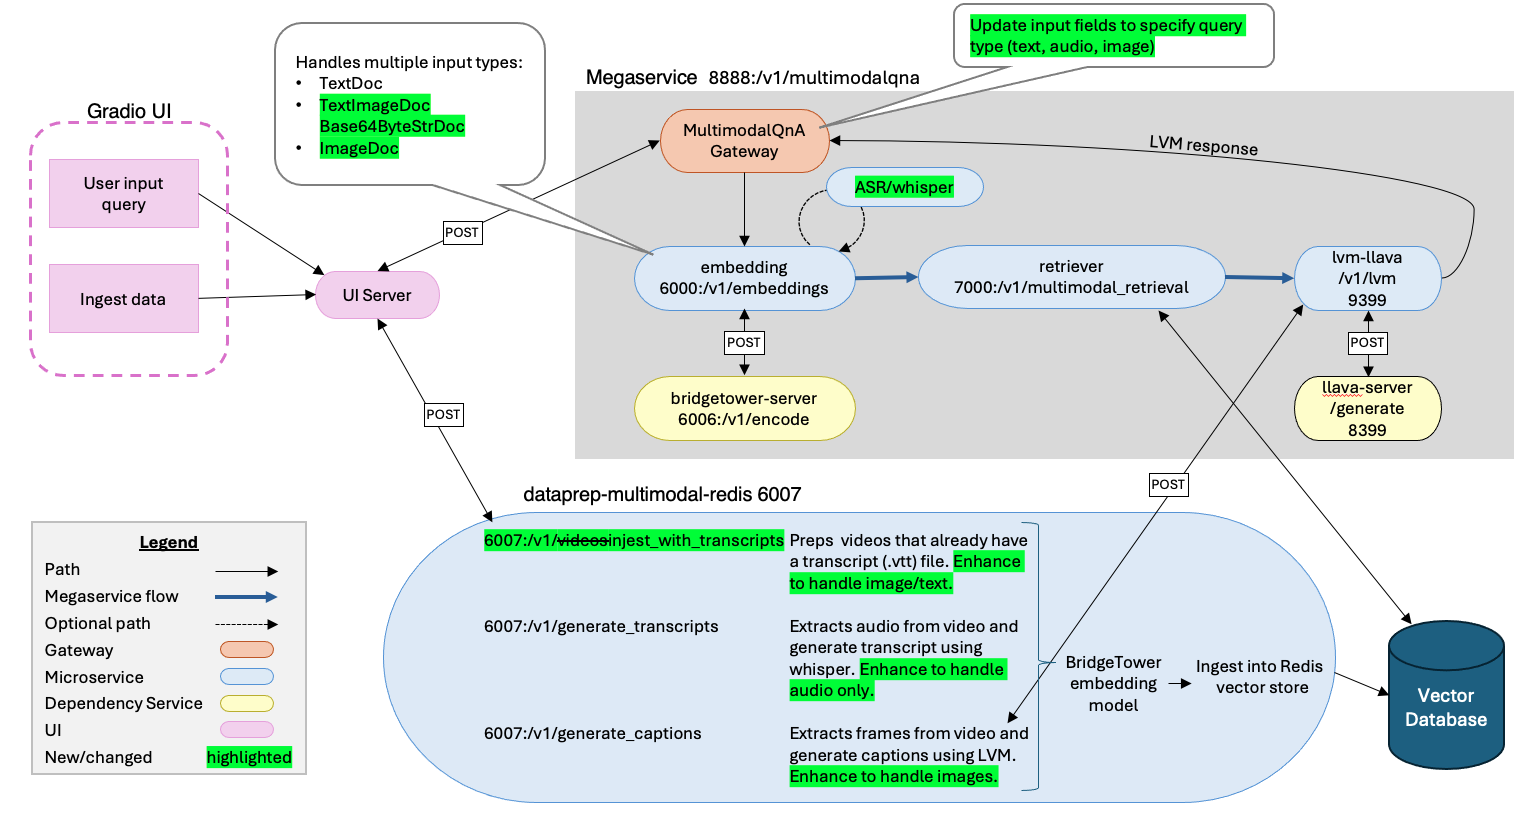
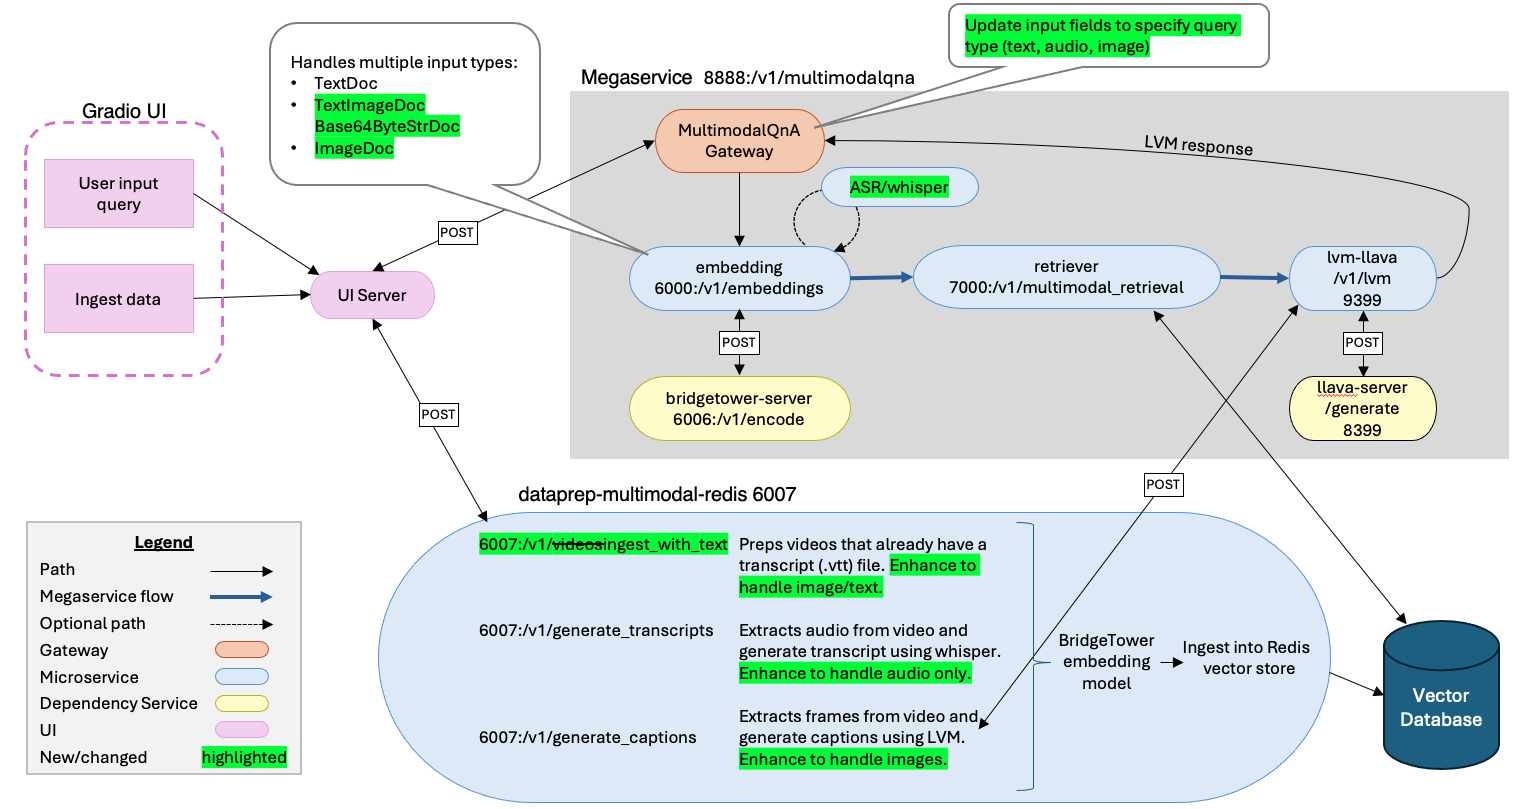
Update dataprep endpoint paths

diff --git a/community/rfcs/24-10-02-GenAIExamples-xxx-Image_and_Audio_Support_in_MultimodalQnA.md b/community/rfcs/24-10-02-GenAIExamples-xxx-Image_and_Audio_Support_in_MultimodalQnA.md
@@ -69,11 +69,13 @@ The table below lists the endpoints for the multimodal data prep microservice th
 
 | Endpoint | Data type | Description |
 |----------|-----------|-------------|
-| `6007:/v1/videos_with_transcripts` becomes `6007:/v1/ingest_with_transcripts` | Videos with transcripts and images with text | For video with transcripts, gets the video file with their corresponding transcript file (.vtt), and then extracts frames and saves annotations. The image with text would be treated like a single frame with transcript. The data and metadata are prepared for ingestion and then added to the Redis vector store. |
+| `6007:/v1/videos_with_transcripts` becomes `6007:/v1/ingest_with_text` | Videos with transcripts and images with text | For video with transcripts, gets the video file with their corresponding transcript file (.vtt), and then extracts frames and saves annotations. The image with text would be treated like a single frame with transcript. The data and metadata are prepared for ingestion and then added to the Redis vector store. |
 | `6007:/v1/generate_transcripts` | Videos with spoken audio and audio only | For videos with spoken audio, data prep extracts the audio from the video and then generates a transcript (.vtt) using the whisper model. For audio only, the transcript would also be generated using the whisper model. The data and metadata are prepared for ingestion and then added to the Redis vector store. |
 | `6007:/v1/generate_captions` | Videos without spoken audio (i.e. background music, silent movie) and images without text | For videos, data prep extracts frames from the video and uses the LVM microservice to generate captions for the frames. An image will be treated similarly to a video frame, and the LVM will be used to generate a caption for the image. The data and metadata are prepared for ingestion and then added to the Redis vector store. |
-| `6007:/v1/dataprep/get_videos` becomes `6007:/v1/dataprep/get_mm_data` |  Multimodal | Lists names of uploaded multimodal data. |
-| `6007:/v1/dataprep/delete_videos` becomes `6007:/v1/dataprep/delete_mm_data` |  Multimodal | Deletes all the uploaded multimodal data. |
+| `6007:/v1/dataprep/get_videos` becomes `6007:/v1/dataprep/get_files` |  Multimodal | Lists names of uploaded files. |
+| `6007:/v1/dataprep/delete_videos` becomes `6007:/v1/dataprep/delete_files` |  Multimodal | Deletes all the uploaded files. |
+
+<!-- TODO: Currently, does the 'delete' have an option to do it for a single video, or is it always deleting all videos? -->
 
 ### User Query
 
